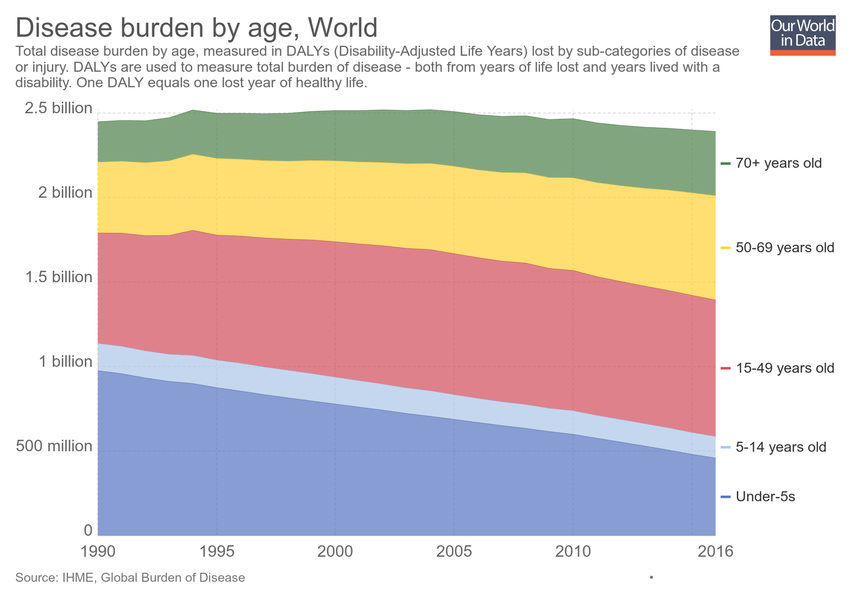
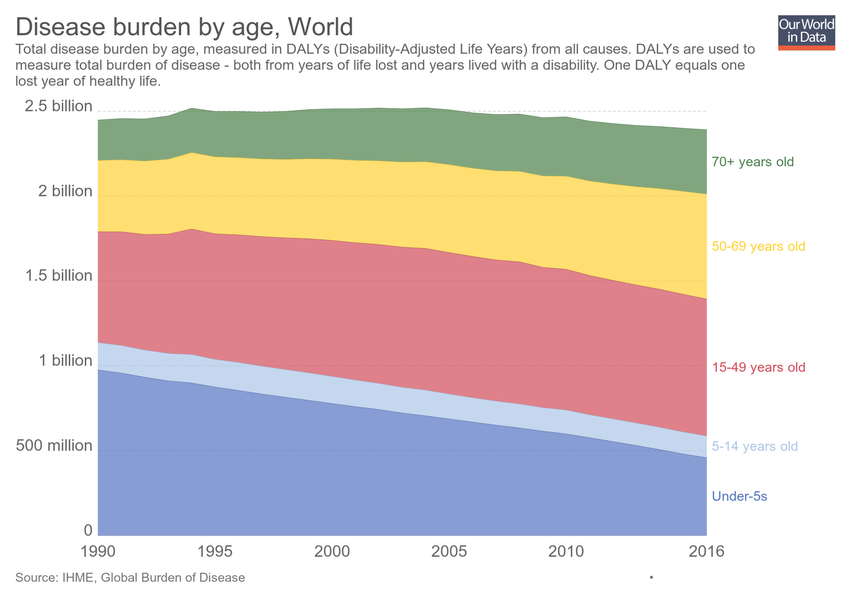
Updating chart disease-burden-by-age

diff --git a/grapher/disease-burden-by-age.html b/grapher/disease-burden-by-age.html
@@ -1,4 +1,4 @@
-<!doctype html><html><head><meta name="viewport" content="width=device-width, initial-scale=1" /><title>Disease burden by age - Our World in Data</title><meta name="description" content="Total disease burden by age, measured in DALYs (Disability-Adjusted Life Years) lost from all causes. DALYs are used to measure total burden of disease - both from years of life lost and years lived with a disability. One DALY equals one lost year of healthy life." /><link rel="canonical" href="https://ourworldindata.org/grapher/disease-burden-by-age" /><meta property="fb:app_id" content="1149943818390250" /><meta property="og:url" content="https://ourworldindata.org/grapher/disease-burden-by-age" /><meta property="og:title" content="Disease burden by age" /><meta property="og:description" content="Total disease burden by age, measured in DALYs (Disability-Adjusted Life Years) lost from all causes. DALYs are used to measure total burden of disease - both from years of life lost and years lived with a disability. One DALY equals one lost year of healthy life." /><meta property="og:image" content="https://ourworldindata.org/grapher/exports/disease-burden-by-age.png?v=2" /><meta property="og:image:width" content="850" /><meta property="og:image:height" content="600" /><meta property="og:site_name" content="Our World in Data" /><meta name="twitter:card" content="summary_large_image" /><meta name="twitter:site" content="@OurWorldInData" /><meta name="twitter:creator" content="@OurWorldInData" /><meta name="twitter:title" content="Disease burden by age" /><meta name="twitter:description" content="Total disease burden by age, measured in DALYs (Disability-Adjusted Life Years) lost from all causes. DALYs are used to measure total burden of disease - both from years of life lost and years lived with a disability. One DALY equals one lost year of healthy life." /><meta name="twitter:image" content="https://ourworldindata.org/grapher/exports/disease-burden-by-age.png?v=2" /><style>
+<!doctype html><html><head><meta name="viewport" content="width=device-width, initial-scale=1" /><title>Disease burden by age - Our World in Data</title><meta name="description" content="Total disease burden by age, measured in DALYs (Disability-Adjusted Life Years) from all causes. DALYs are used to measure total burden of disease - both from years of life lost and years lived with a disability. One DALY equals one lost year of healthy life." /><link rel="canonical" href="https://ourworldindata.org/grapher/disease-burden-by-age" /><meta property="fb:app_id" content="1149943818390250" /><meta property="og:url" content="https://ourworldindata.org/grapher/disease-burden-by-age" /><meta property="og:title" content="Disease burden by age" /><meta property="og:description" content="Total disease burden by age, measured in DALYs (Disability-Adjusted Life Years) from all causes. DALYs are used to measure total burden of disease - both from years of life lost and years lived with a disability. One DALY equals one lost year of healthy life." /><meta property="og:image" content="https://ourworldindata.org/grapher/exports/disease-burden-by-age.png?v=3" /><meta property="og:image:width" content="850" /><meta property="og:image:height" content="600" /><meta property="og:site_name" content="Our World in Data" /><meta name="twitter:card" content="summary_large_image" /><meta name="twitter:site" content="@OurWorldInData" /><meta name="twitter:creator" content="@OurWorldInData" /><meta name="twitter:title" content="Disease burden by age" /><meta name="twitter:description" content="Total disease burden by age, measured in DALYs (Disability-Adjusted Life Years) from all causes. DALYs are used to measure total burden of disease - both from years of life lost and years lived with a disability. One DALY equals one lost year of healthy life." /><meta name="twitter:image" content="https://ourworldindata.org/grapher/exports/disease-burden-by-age.png?v=3" /><style>
         html, body {
             height: 100%;
             margin: 0;
@@ -20,8 +20,8 @@
         }
     </style><noscript><style>
                     figure { display: none !important; }
-                </style></noscript><link rel="stylesheet" href="https://ourworldindata.org/grapher/assets/commons.bundle.a7ce280024c736539280.css" /><link rel="preload" href="/grapher/data/variables/56591+56595+56597+56599+56601.json?v=2" as="fetch" crossorigin /></head><body class="singleChart"><figure data-grapher-src="/grapher/disease-burden-by-age"></figure><noscript id="fallback"><img src="/grapher/exports/disease-burden-by-age.svg" /><p>Interactive visualization requires JavaScript</p></noscript><script src="https://cdn.polyfill.io/v2/polyfill.min.js?features=es6,fetch"></script><script src="https://ourworldindata.org/grapher/assets/commons.bundle.a7ce280024c736539280.js"></script><script src="https://ourworldindata.org/grapher/assets/charts.bundle.dcf65b68eddaba4c6a58.js"></script><script>
-        var jsonConfig = {"id":2199,"map":{"projection":"World","colorSchemeLabels":[],"colorSchemeValues":[],"defaultProjection":"World","colorSchemeMinValue":0,"customNumericColors":[],"customCategoryColors":{},"customCategoryLabels":{},"customHiddenCategories":{}},"tab":"chart","slug":"disease-burden-by-age","type":"StackedArea","title":"Disease burden by age","xAxis":{"scaleType":"linear"},"yAxis":{"min":0,"scaleType":"linear"},"version":2,"subtitle":"Total disease burden by age, measured in DALYs (Disability-Adjusted Life Years) lost from all causes. DALYs are used to measure total burden of disease - both from years of life lost and years lived with a disability. One DALY equals one lost year of healthy life.","hasMapTab":false,"stackMode":"absolute","dimensions":[{"display":{"name":"Under-5s","unit":"DALYs lost"},"property":"y","variableId":56591,"numDecimalPlaces":0},{"display":{"name":"5-14 years old","unit":"DALYs lost"},"property":"y","variableId":56595,"numDecimalPlaces":0},{"display":{"name":"15-49 years old","unit":"DALYs lost"},"property":"y","variableId":56597,"numDecimalPlaces":0},{"display":{"name":"50-69 years old","unit":"DALYs lost"},"property":"y","variableId":56599,"numDecimalPlaces":0},{"display":{"name":"70+ years old","unit":"DALYs lost"},"property":"y","variableId":56601,"numDecimalPlaces":0}],"sourceDesc":"IHME, Global Burden of Disease","hasChartTab":true,"isPublished":true,"selectedData":[{"index":4,"entityId":355},{"index":3,"entityId":355},{"index":2,"entityId":355},{"index":1,"entityId":355},{"index":0,"entityId":355}],"addCountryMode":"change-country","baseColorScheme":"continents"};
+                </style></noscript><link rel="stylesheet" href="https://ourworldindata.org/grapher/assets/commons.bundle.a7ce280024c736539280.css" /><link rel="preload" href="/grapher/data/variables/56591+56595+56597+56599+56601.json?v=3" as="fetch" crossorigin /></head><body class="singleChart"><figure data-grapher-src="/grapher/disease-burden-by-age"></figure><noscript id="fallback"><img src="/grapher/exports/disease-burden-by-age.svg" /><p>Interactive visualization requires JavaScript</p></noscript><script src="https://cdn.polyfill.io/v2/polyfill.min.js?features=es6,fetch"></script><script src="https://ourworldindata.org/grapher/assets/commons.bundle.a7ce280024c736539280.js"></script><script src="https://ourworldindata.org/grapher/assets/charts.bundle.dcf65b68eddaba4c6a58.js"></script><script>
+        var jsonConfig = {"id":2199,"map":{"projection":"World","colorSchemeLabels":[],"colorSchemeValues":[],"colorSchemeMinValue":0,"customNumericColors":[],"customCategoryColors":{},"customCategoryLabels":{},"customHiddenCategories":{}},"tab":"chart","slug":"disease-burden-by-age","type":"StackedArea","title":"Disease burden by age","xAxis":{"scaleType":"linear"},"yAxis":{"min":0,"scaleType":"linear"},"version":3,"subtitle":"Total disease burden by age, measured in DALYs (Disability-Adjusted Life Years) from all causes. DALYs are used to measure total burden of disease - both from years of life lost and years lived with a disability. One DALY equals one lost year of healthy life.","hasMapTab":false,"stackMode":"absolute","dimensions":[{"display":{"name":"Under-5s","unit":"DALYs lost"},"property":"y","variableId":56591},{"display":{"name":"5-14 years old","unit":"DALYs lost"},"property":"y","variableId":56595},{"display":{"name":"15-49 years old","unit":"DALYs lost"},"property":"y","variableId":56597},{"display":{"name":"50-69 years old","unit":"DALYs lost"},"property":"y","variableId":56599},{"display":{"name":"70+ years old","unit":"DALYs lost"},"property":"y","variableId":56601}],"sourceDesc":"IHME, Global Burden of Disease","hasChartTab":true,"isPublished":true,"selectedData":[{"index":4,"entityId":355},{"index":3,"entityId":355},{"index":2,"entityId":355},{"index":1,"entityId":355},{"index":0,"entityId":355}],"addCountryMode":"change-country","baseColorScheme":"continents"};
         var figure = document.getElementsByTagName("figure")[0];
         try {
             window.App = {};

diff --git a/grapher/rate-of-internationally-observed-elections.html b/grapher/rate-of-internationally-observed-elections.html
@@ -1,4 +1,4 @@
-<!doctype html><html><head><meta name="viewport" content="width=device-width, initial-scale=1" /><title>Internationally observed elections (%) - Our World in Data</title><meta name="description" content="Percentage of internationally observed elections and whether they were criticized by international observers. Figures cover 1,754 election events in 157 independent states, excluding those with population less than 250,000." /><link rel="canonical" href="https://ourworldindata.org/grapher/rate-of-internationally-observed-elections" /><meta property="fb:app_id" content="1149943818390250" /><meta property="og:url" content="https://ourworldindata.org/grapher/rate-of-internationally-observed-elections" /><meta property="og:title" content="Internationally observed elections (%)" /><meta property="og:description" content="Percentage of internationally observed elections and whether they were criticized by international observers. Figures cover 1,754 election events in 157 independent states, excluding those with population less than 250,000." /><meta property="og:image" content="https://ourworldindata.org/grapher/exports/rate-of-internationally-observed-elections.png?v=16" /><meta property="og:image:width" content="850" /><meta property="og:image:height" content="600" /><meta property="og:site_name" content="Our World in Data" /><meta name="twitter:card" content="summary_large_image" /><meta name="twitter:site" content="@OurWorldInData" /><meta name="twitter:creator" content="@OurWorldInData" /><meta name="twitter:title" content="Internationally observed elections (%)" /><meta name="twitter:description" content="Percentage of internationally observed elections and whether they were criticized by international observers. Figures cover 1,754 election events in 157 independent states, excluding those with population less than 250,000." /><meta name="twitter:image" content="https://ourworldindata.org/grapher/exports/rate-of-internationally-observed-elections.png?v=16" /><style>
+<!doctype html><html><head><meta name="viewport" content="width=device-width, initial-scale=1" /><title>Internationally observed elections by Western monitors - Our World in Data</title><meta name="description" content="Estimates correspond to the number of international elections that were either observed and criticized by Western monitors, observed and not criticized by Western monitors, or elections that were not observed by Western monitors. Criticism refers to allegations of significant vote-fraud." /><link rel="canonical" href="https://ourworldindata.org/grapher/rate-of-internationally-observed-elections" /><meta property="fb:app_id" content="1149943818390250" /><meta property="og:url" content="https://ourworldindata.org/grapher/rate-of-internationally-observed-elections" /><meta property="og:title" content="Internationally observed elections by Western monitors" /><meta property="og:description" content="Estimates correspond to the number of international elections that were either observed and criticized by Western monitors, observed and not criticized by Western monitors, or elections that were not observed by Western monitors. Criticism refers to allegations of significant vote-fraud." /><meta property="og:image" content="https://ourworldindata.org/grapher/exports/rate-of-internationally-observed-elections.png?v=8" /><meta property="og:image:width" content="850" /><meta property="og:image:height" content="600" /><meta property="og:site_name" content="Our World in Data" /><meta name="twitter:card" content="summary_large_image" /><meta name="twitter:site" content="@OurWorldInData" /><meta name="twitter:creator" content="@OurWorldInData" /><meta name="twitter:title" content="Internationally observed elections by Western monitors" /><meta name="twitter:description" content="Estimates correspond to the number of international elections that were either observed and criticized by Western monitors, observed and not criticized by Western monitors, or elections that were not observed by Western monitors. Criticism refers to allegations of significant vote-fraud." /><meta name="twitter:image" content="https://ourworldindata.org/grapher/exports/rate-of-internationally-observed-elections.png?v=8" /><style>
         html, body {
             height: 100%;
             margin: 0;
@@ -20,8 +20,8 @@
         }
     </style><noscript><style>
                     figure { display: none !important; }
-                </style></noscript><link rel="stylesheet" href="https://ourworldindata.org/grapher/assets/commons.bundle.a7ce280024c736539280.css" /><link rel="preload" href="/grapher/data/variables/97378+97379.json?v=16" as="fetch" crossorigin /></head><body class="singleChart"><figure data-grapher-src="/grapher/rate-of-internationally-observed-elections"></figure><noscript id="fallback"><img src="/grapher/exports/rate-of-internationally-observed-elections.svg" /><p>Interactive visualization requires JavaScript</p></noscript><script src="https://cdn.polyfill.io/v2/polyfill.min.js?features=es6,fetch"></script><script src="https://ourworldindata.org/grapher/assets/commons.bundle.a7ce280024c736539280.js"></script><script src="https://ourworldindata.org/grapher/assets/charts.bundle.dcf65b68eddaba4c6a58.js"></script><script>
-        var jsonConfig = {"id":2589,"map":{"projection":"World","colorSchemeLabels":[],"colorSchemeValues":[],"colorSchemeMinValue":0,"customNumericColors":[],"customCategoryColors":{},"customCategoryLabels":{},"customHiddenCategories":{}},"tab":"chart","slug":"rate-of-internationally-observed-elections","type":"StackedArea","title":"Internationally observed elections (%)","xAxis":{"scaleType":"linear"},"yAxis":{"max":80,"min":0,"scaleType":"linear"},"version":16,"subtitle":"Percentage of internationally observed elections and whether they were criticized by international observers. Figures cover 1,754 election events in 157 independent states, excluding those with population less than 250,000.","hasMapTab":false,"stackMode":"absolute","dimensions":[{"display":{"name":"Percent of elections observed and criticised","unit":"%"},"property":"y","variableId":97378},{"display":{"name":"Percent of elections observed and not criticised"},"property":"y","variableId":97379}],"hasChartTab":true,"isPublished":true,"selectedData":[{"index":0,"entityId":355},{"index":1,"entityId":355}],"addCountryMode":"change-country","baseColorScheme":"Plasma","hideRelativeToggle":true,"hideTitleAnnotation":true};
+                </style></noscript><link rel="stylesheet" href="https://ourworldindata.org/grapher/assets/commons.bundle.a7ce280024c736539280.css" /><link rel="preload" href="/grapher/data/variables/97399+97400+97401.json?v=8" as="fetch" crossorigin /></head><body class="singleChart"><figure data-grapher-src="/grapher/rate-of-internationally-observed-elections"></figure><noscript id="fallback"><img src="/grapher/exports/rate-of-internationally-observed-elections.svg" /><p>Interactive visualization requires JavaScript</p></noscript><script src="https://cdn.polyfill.io/v2/polyfill.min.js?features=es6,fetch"></script><script src="https://ourworldindata.org/grapher/assets/commons.bundle.a7ce280024c736539280.js"></script><script src="https://ourworldindata.org/grapher/assets/charts.bundle.dcf65b68eddaba4c6a58.js"></script><script>
+        var jsonConfig = {"id":2598,"map":{"projection":"World","colorSchemeLabels":[],"colorSchemeValues":[],"customNumericColors":[],"customCategoryColors":{},"customCategoryLabels":{},"customHiddenCategories":{}},"tab":"chart","note":"Includes 2435 election events in 162 countries","slug":"rate-of-internationally-observed-elections","type":"StackedArea","title":"Internationally observed elections by Western monitors","xAxis":{"scaleType":"linear"},"yAxis":{"min":0,"scaleType":"linear"},"version":8,"subtitle":"Estimates correspond to the number of international elections that were either observed and criticized by Western monitors, observed and not criticized by Western monitors, or elections that were not observed by Western monitors. Criticism refers to allegations of significant vote-fraud.","hasMapTab":false,"stackMode":"relative","dimensions":[{"display":{"name":"Elections not observed","unit":"elections","shortUnit":""},"property":"y","variableId":97399},{"display":{"name":"Elections observed and criticized"},"property":"y","variableId":97400},{"display":{"name":"Elections observed and not critcized"},"property":"y","variableId":97401}],"hasChartTab":true,"isPublished":true,"selectedData":[{"index":0,"entityId":355},{"index":2,"entityId":355},{"index":1,"entityId":355}],"addCountryMode":"change-country","baseColorScheme":"owid-distinct","invertColorScheme":true,"hideTitleAnnotation":true};
         var figure = document.getElementsByTagName("figure")[0];
         try {
             window.App = {};
